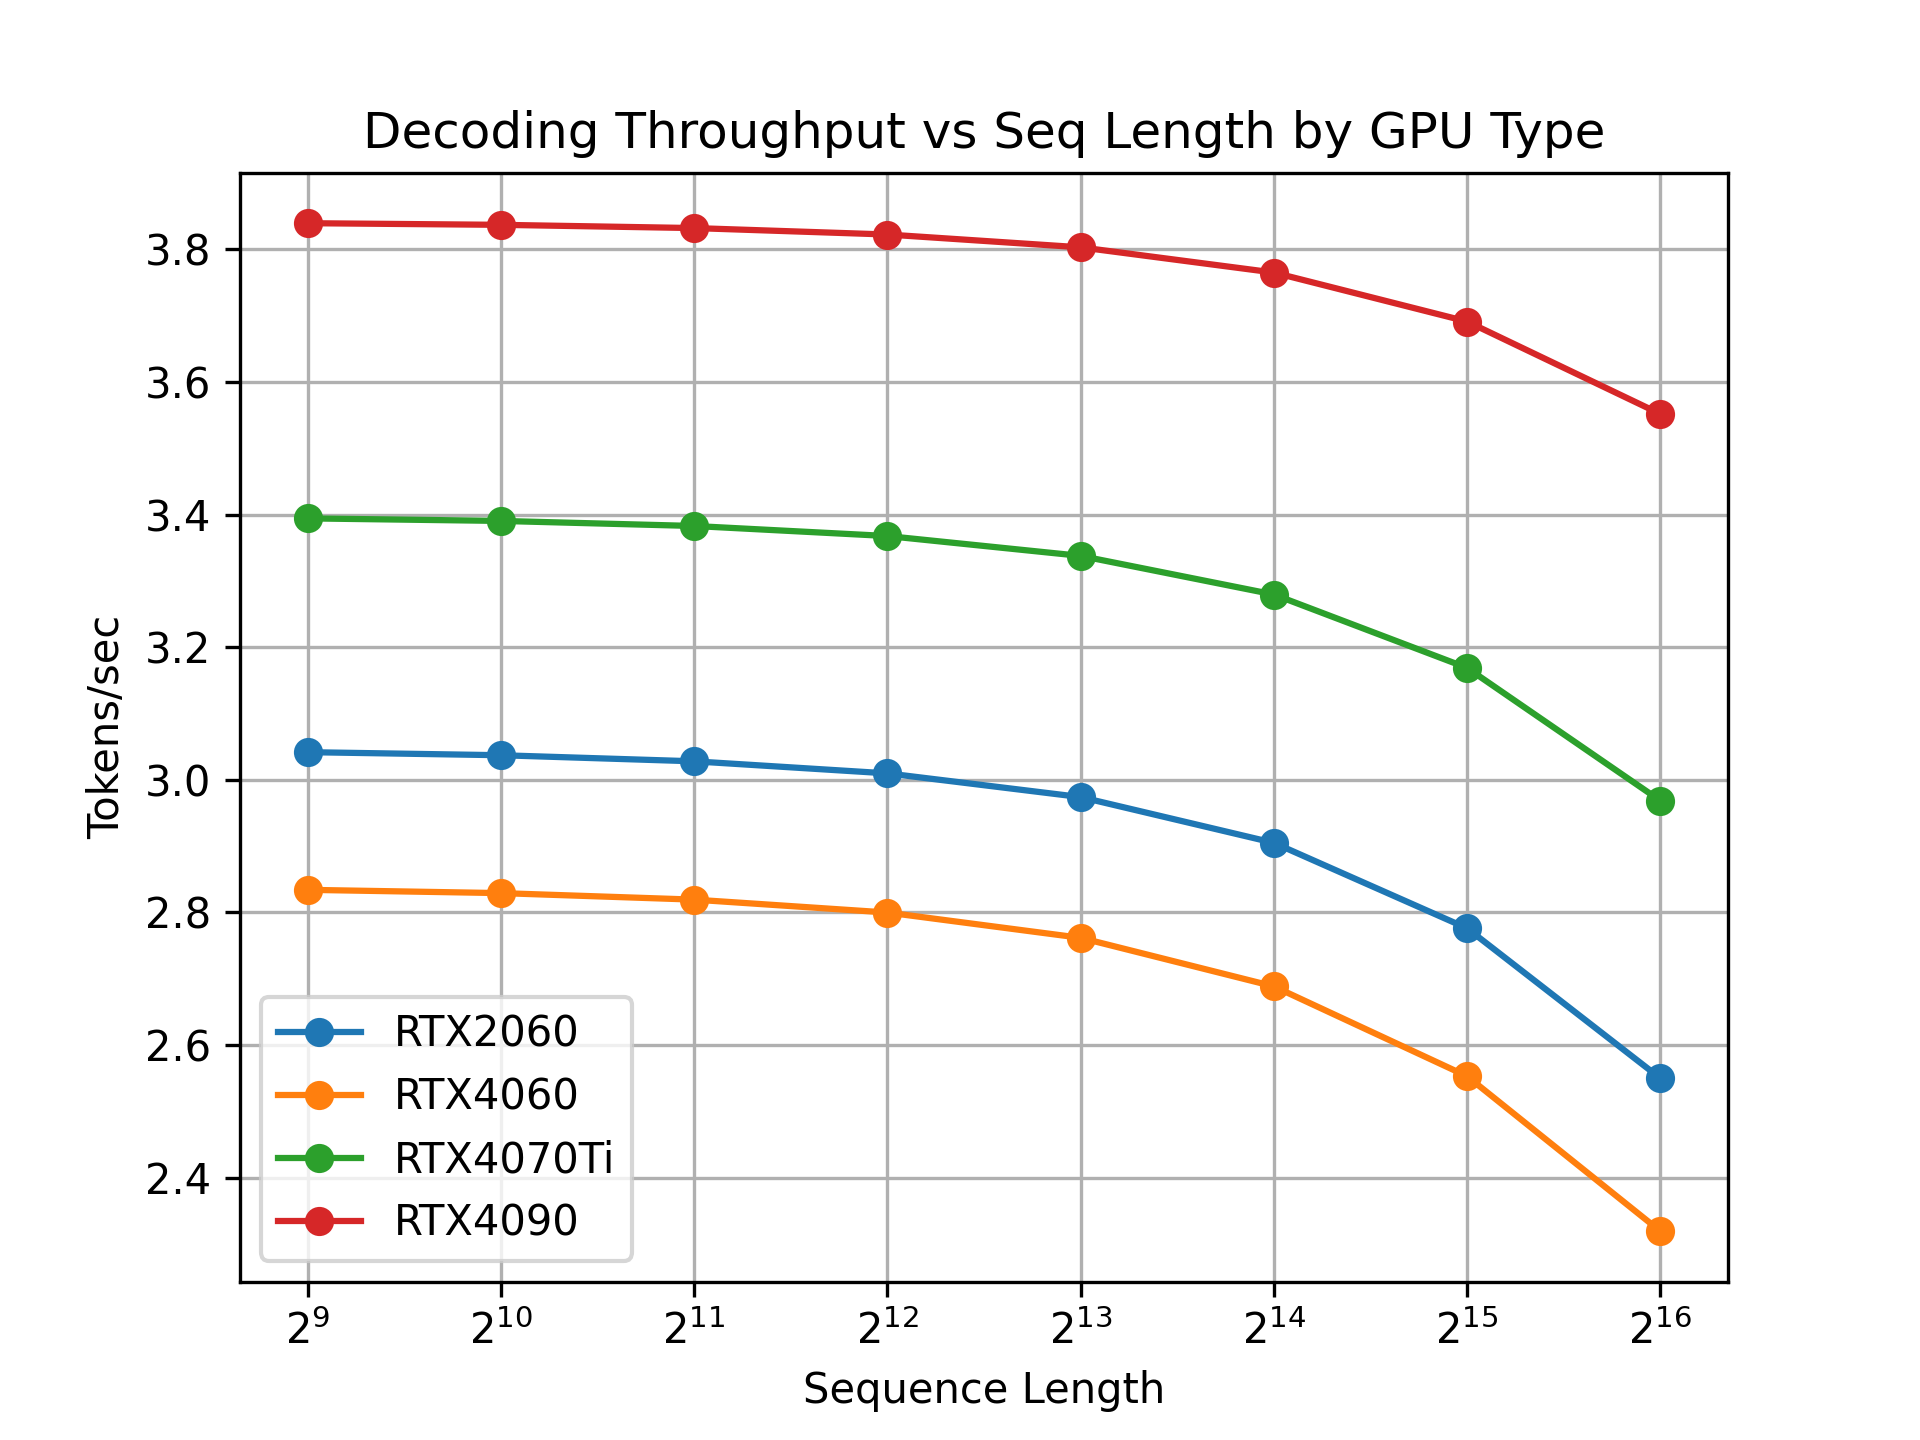
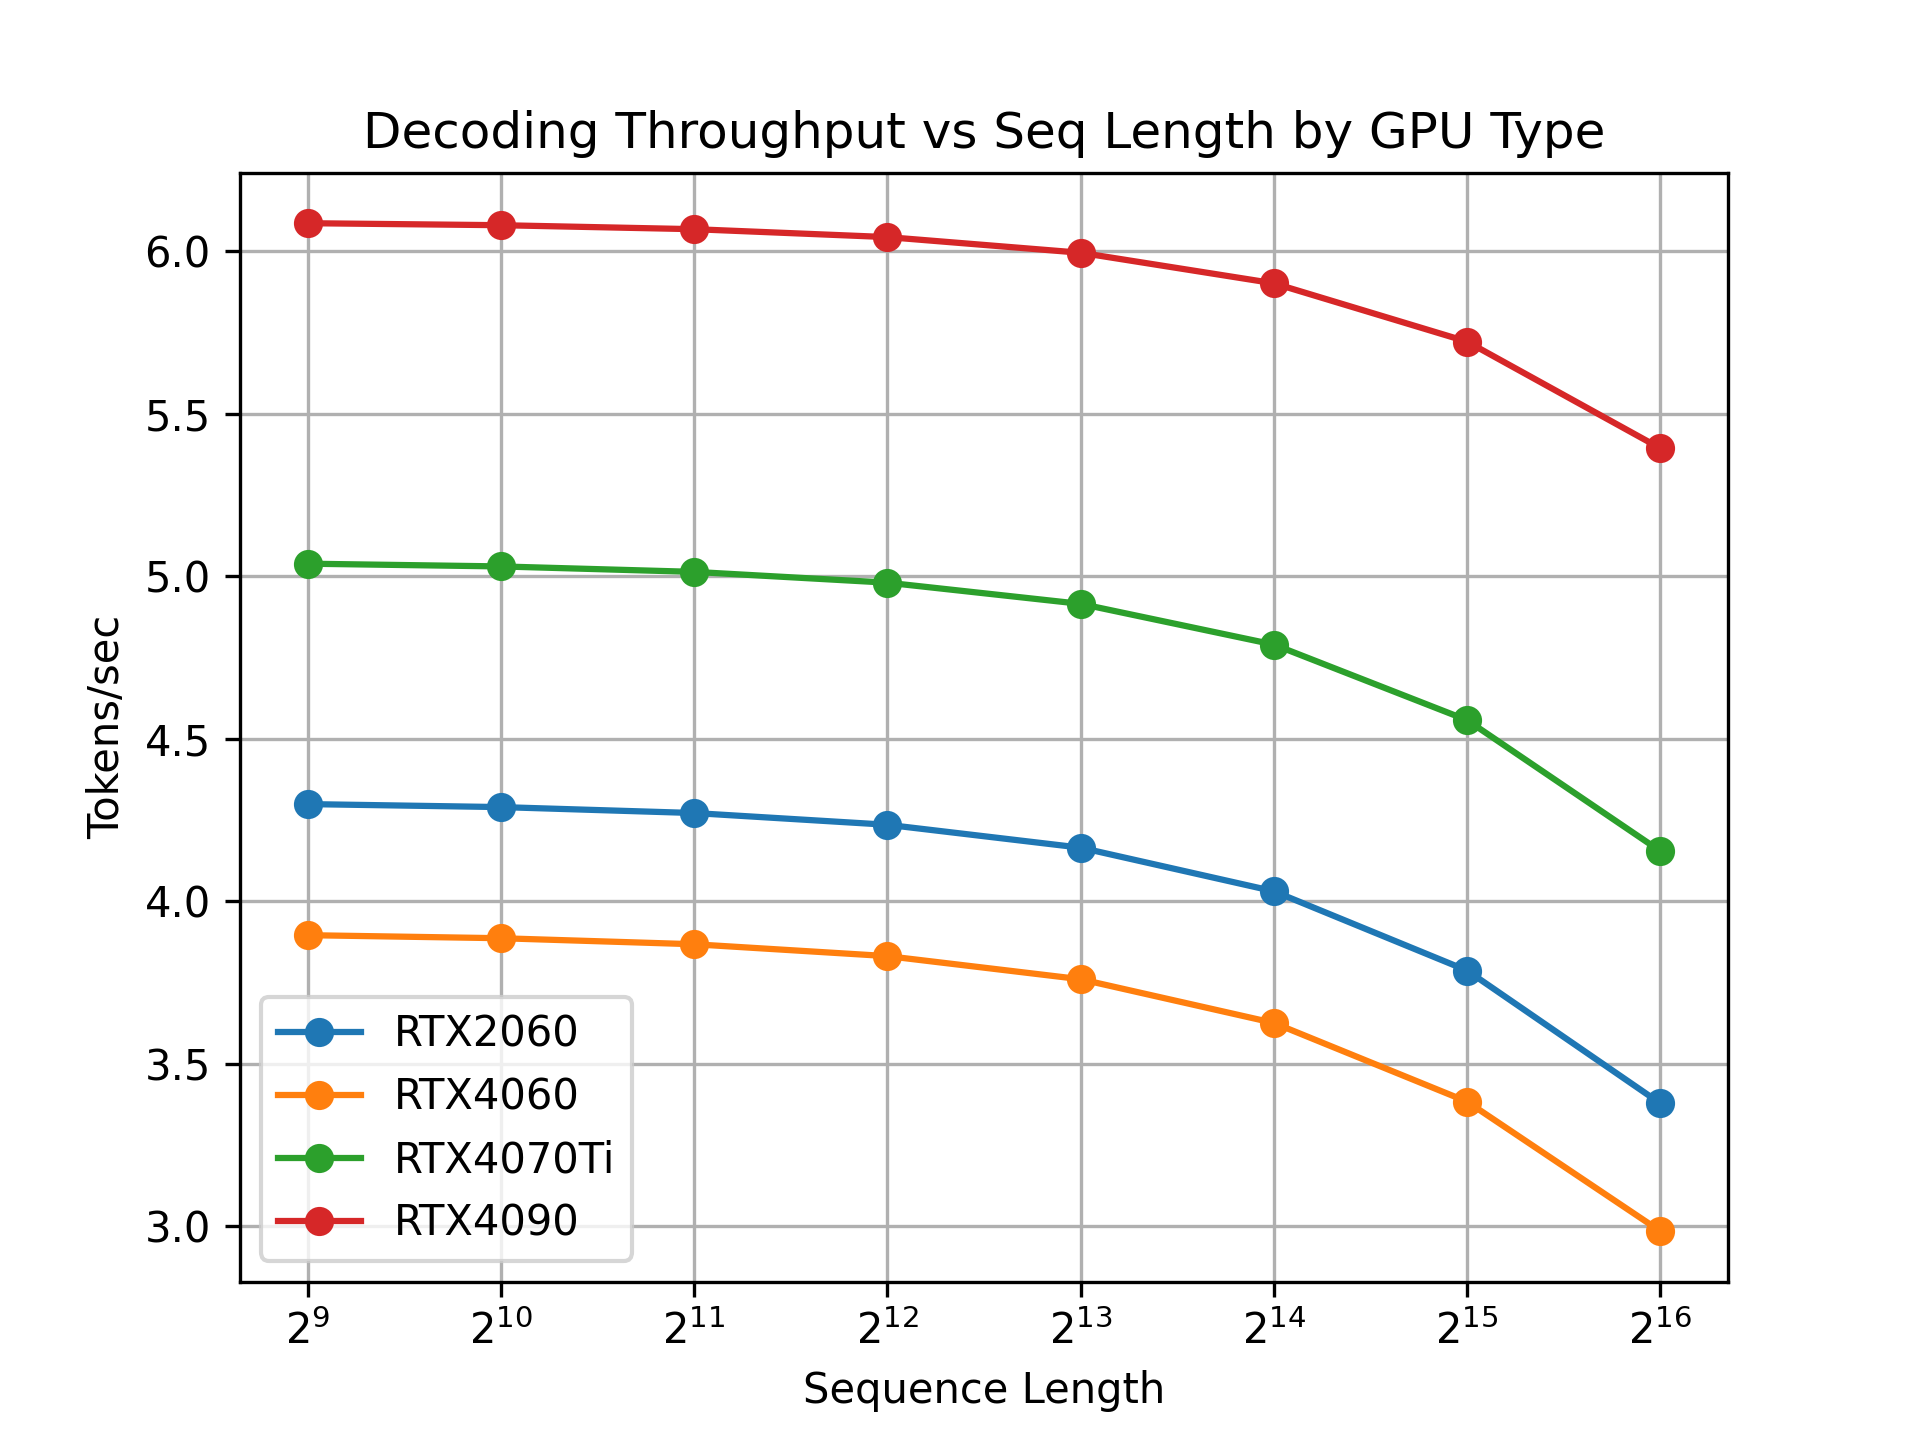
feat: add theoratical estimation, fix bug for commuication formula (MBytes -> MBits) and (latency = RTT -> latency = RTT/2)

diff --git a/latency_estimation_main.py b/latency_estimation_main.py
@@ -13,7 +13,7 @@ BATCH_SIZE = 1
 
 # 1) Vary number of servers (all 4090)
 def plot_by_server_count():
-    server_counts = [8, 10, 16, 20]
+    server_counts = [4, 8, 10, 16, 20]
     plt.figure()
     for count in server_counts:
         # build configuration
@@ -41,12 +41,13 @@ def plot_by_gpu_type():
     gpu_funcs = [get_2060_example, get_4060_example, get_4070ti_example, get_4090_example]
     labels = ['RTX2060', 'RTX4060', 'RTX4070Ti', 'RTX4090']
     plt.figure()
+    num_servers = 4
     for fn, label in zip(gpu_funcs, labels):
         model_cfg, _, client_cfg, network_cfg = create_base_configs()
         # two servers of this GPU
         server_cfgs = [fn(client_cfg.download_network_bandwidth,
                           client_cfg.upload_network_bandwidth,
-                          num_blocks=model_cfg.num_layers // 8)] * 8
+                          num_blocks=model_cfg.num_layers // num_servers)] * num_servers
         estimator = PetalsEstimator(model_cfg, server_cfgs, client_cfg, network_cfg)
         throughputs = [estimator.run(seq, BATCH_SIZE).token_per_s for seq in TEST_SEQ_LENS]
         plt.plot(TEST_SEQ_LENS, throughputs, marker='o', label=label)
@@ -63,12 +64,13 @@ def plot_by_gpu_type():
 def plot_by_rtt():
     rtts = [10e-3, 50e-3, 200e-3, 500e-3]
     plt.figure()
+    num_servers = 4
     for rtt in rtts:
         model_cfg, _, client_cfg, network_cfg = create_base_configs()
         network_cfg.fixed_rtt = rtt
         server_cfgs = [get_4090_example(client_cfg.download_network_bandwidth,
                                         client_cfg.upload_network_bandwidth,
-                                        num_blocks=model_cfg.num_layers // 8)] * 8
+                                        num_blocks=model_cfg.num_layers // num_servers)] * num_servers
         estimator = PetalsEstimator(model_cfg, server_cfgs, client_cfg, network_cfg)
         throughputs = [estimator.run(seq, BATCH_SIZE).token_per_s for seq in TEST_SEQ_LENS]
         plt.plot(TEST_SEQ_LENS, throughputs, marker='o', label=f"RTT={rtt*1e3:.0f}ms")
@@ -85,13 +87,14 @@ def plot_by_rtt():
 def plot_by_bandwidth():
     bws = [50e6, 100e6, 200e6, 400e6]  # in B/s
     plt.figure()
+    num_servers = 4
     for bw in bws:
         model_cfg, _, client_cfg, network_cfg = create_base_configs()
         client_cfg.download_network_bandwidth = client_cfg.upload_network_bandwidth = bw
-        server_cfgs = [get_4090_example(bw, bw, num_blocks=model_cfg.num_layers // 8)] * 8
+        server_cfgs = [get_4090_example(bw, bw, num_blocks=model_cfg.num_layers // num_servers)] * num_servers
         estimator = PetalsEstimator(model_cfg, server_cfgs, client_cfg, network_cfg)
         throughputs = [estimator.run(seq, BATCH_SIZE).token_per_s for seq in TEST_SEQ_LENS]
-        plt.plot(TEST_SEQ_LENS, throughputs, marker='o', label=f"BW={bw/1e6:.0f}MB/s")
+        plt.plot(TEST_SEQ_LENS, throughputs, marker='o', label=f"BW={bw/1e6:.0f}Mbits/s")
     plt.xscale('log', base=2)
     
     plt.xlabel('Sequence Length')
@@ -100,6 +103,54 @@ def plot_by_bandwidth():
     plt.legend()
     plt.grid(True)
     plt.savefig('figures/throughput_by_bandwidth.png', dpi=300)
+
+# 5) Vary number of servers (theoratical estimation)
+def plot_by_server_count_theoratically():
+    server_counts = [4, 8, 10, 16, 20]
+    plt.figure()
+    for count in server_counts:
+        # build configuration
+        model_cfg, _, client_cfg, network_cfg = create_base_configs()
+        server_cfgs = [get_4090_example(client_cfg.download_network_bandwidth,
+                                        client_cfg.upload_network_bandwidth,
+                                        num_blocks=80 // count)] * count
+        estimator = PetalsEstimator(model_cfg, server_cfgs, client_cfg, network_cfg)
+        throughputs = []
+        for seq in TEST_SEQ_LENS:
+            res: EstimateResults = estimator.run_theoratical_estimation(seq, BATCH_SIZE)
+            throughputs.append(res.token_per_s)
+        plt.plot(TEST_SEQ_LENS, throughputs, marker='o', label=f"{count} servers")
+    plt.xscale('log', base=2)
+    
+    plt.xlabel('Sequence Length')
+    plt.ylabel('Tokens/sec')
+    plt.title('Decoding Throughput vs Seq Length by Server Count')
+    plt.legend()
+    plt.grid(True)
+    plt.savefig('figures/theoratical_throughput_by_servers.png', dpi=300)
+
+# 6) Vary RTT (theroratical estimation)
+def plot_by_rtt_theoratically():
+    rtts = [10e-3, 50e-3, 200e-3, 500e-3]
+    num_servers = 4
+    plt.figure()
+    for rtt in rtts:
+        model_cfg, _, client_cfg, network_cfg = create_base_configs()
+        network_cfg.fixed_rtt = rtt
+        server_cfgs = [get_4090_example(client_cfg.download_network_bandwidth,
+                                        client_cfg.upload_network_bandwidth,
+                                        num_blocks=model_cfg.num_layers // num_servers)] * num_servers
+        estimator = PetalsEstimator(model_cfg, server_cfgs, client_cfg, network_cfg)
+        throughputs = [estimator.run_theoratical_estimation(seq, BATCH_SIZE).token_per_s for seq in TEST_SEQ_LENS]
+        plt.plot(TEST_SEQ_LENS, throughputs, marker='o', label=f"RTT={rtt*1e3:.0f}ms")
+    plt.xscale('log', base=2)
+    
+    plt.xlabel('Sequence Length')
+    plt.ylabel('Tokens/sec')
+    plt.title('Decoding Throughput vs Seq Length by RTT')
+    plt.legend()
+    plt.grid(True)
+    plt.savefig('figures/theoratical_throughput_by_rtt.png', dpi=300)
 
 # Helper to create base model, client, network configurations
 def create_base_configs():
@@ -125,6 +176,8 @@ def main():
     plot_by_gpu_type()
     plot_by_rtt()
     plot_by_bandwidth()
+    plot_by_server_count_theoratically()
+    plot_by_rtt_theoratically()
 
 if __name__ == '__main__':
     main()

diff --git a/src/petals_estimator/estimator.py b/src/petals_estimator/estimator.py
@@ -141,6 +141,20 @@ class PetalsEstimator:
             
         return client_storage, server_storage
         
+    def estimate_theoratical_latency(self, seq_len: int, batch_size: int) -> dict[str, float]:
+        """
+        Estimate the total latency by considering only the minimum communication latency, as this is the component that cannot be optimized. Exclude other potential latencies that might be improved, such as server status checks or ping times.
+        """
+        latency_components = defaultdict(int)
+        for i, server in enumerate(self.server_configs):
+            if i == 0: # On the first server, communication time includes transmission from client to server
+                latency_components["(comm)first_server_inputs_comm_latency"] += self._get_random_rtt() / 2
+            else:   # On the other server, the communication happen here is from previous server to next server and also previous server to client
+                latency_components["(comm)total_server_to_server_inputs_comm_latency"] += self._get_random_rtt() / 2
+            # After finished all computation, send the outputs to client and next server, since "server to server" communication latency already be estimated above, here we only consider the last server scenario, which is the last server need to transfer the outputs back to client
+            if i == len(self.server_configs) - 1:
+                latency_components["(comm)last_server_outputs_comm_latency"] += self._get_random_rtt() / 2
+        return latency_components
     
     def estimate_total_latency(self, seq_len: int, batch_size: int) -> dict[str, float]:
         """
@@ -173,14 +187,14 @@ class PetalsEstimator:
         for i, server in enumerate(self.server_configs):
             inputs_bytes = batch_size * 1 * self.model_config.hidden_size * self.model_config.activation_precision_bytes # Due to the KV Cache, the inputs size is just one token's hidden vector
             if i == 0: # On the first server, communication time includes transmission from client to server
-                comm_bw = min(self.client_config.upload_network_bandwidth, server.download_network_bandwidth)   # Use the lower bandwidth between client upload and server download
+                comm_bw = min(self.client_config.upload_network_bandwidth, server.download_network_bandwidth) / 8   # Use the lower bandwidth between client upload and server download
                 inputs_comm_latency = inputs_bytes / comm_bw
                 inputs_comm_latency += (self._get_random_rtt() / 2)
                 latency_components["(comm)first_server_inputs_comm_latency"] += inputs_comm_latency
             else:   # On the other server, the communication happen here is from previous server to next server and also previous server to client
                 previous_server = self.server_configs[i - 1]
                 previous_server_bw = previous_server.upload_network_bandwidth / 2 # This needs to be divided by two because the data is sent to both the client and the next server simultaneously
-                comm_bw = min(server.download_network_bandwidth, previous_server_bw)
+                comm_bw = min(server.download_network_bandwidth, previous_server_bw) / 8
                 inputs_comm_latency = inputs_bytes / comm_bw
                 inputs_comm_latency += (self._get_random_rtt() / 2)
                 latency_components["(comm)total_server_to_server_inputs_comm_latency"] += inputs_comm_latency
@@ -215,10 +229,10 @@ class PetalsEstimator:
             
             # After finished all computation, send the outputs to client and next server, since "server to server" communication latency already be estimated above, here we only consider the last server scenario, which is the last server need to transfer the outputs back to client
             if i == len(self.server_configs) - 1:
-                comm_bw = min(self.client_config.upload_network_bandwidth, server.download_network_bandwidth)   # Use the lower bandwidth between server upload and client download
+                comm_bw = min(self.client_config.upload_network_bandwidth, server.download_network_bandwidth) / 8  # Use the lower bandwidth between server upload and client download
                 outputs_comm_latency = outputs_bytes / comm_bw
                 outputs_comm_latency += (self._get_random_rtt() / 2)
-                latency_components["(comm)last_server_outputs_comm_latency"] += inputs_comm_latency
+                latency_components["(comm)last_server_outputs_comm_latency"] += outputs_comm_latency
 
         compute_logits_latency = 0 
         latency_components["(compute&memory)compute_logits_latency"] += compute_logits_latency
@@ -258,5 +272,10 @@ class PetalsEstimator:
         
     def run(self, seq_len: int, batch_size: int) -> EstimateResults:
         results = self.estimate_total_latency(seq_len, batch_size)
+        total_latency = sum(results.values())
+        return EstimateResults(seq_len=seq_len, token_per_s=1 / total_latency)
+    
+    def run_theoratical_estimation(self, seq_len: int, batch_size: int) -> EstimateResults:
+        results = self.estimate_theoratical_latency(seq_len, batch_size)
         total_latency = sum(results.values())
         return EstimateResults(seq_len=seq_len, token_per_s=1 / total_latency)

diff --git a/src/petals_estimator/config.py b/src/petals_estimator/config.py
@@ -25,16 +25,16 @@ class ServerConfig:
     ops_utilization: float # pecentage
     pcie_bandwidth: float # B/s
     vram_bandwidth: float  # B/s
-    download_network_bandwidth: float  # B/s
-    upload_network_bandwidth: float  # B/s
+    download_network_bandwidth: float  # bits/s
+    upload_network_bandwidth: float  # bits/s
     num_blocks: int  # Number of transformer blocks on this server
 
 @dataclass
 class ClientConfig:
     """Client configuration"""
-    download_network_bandwidth: float  # B/s
-    upload_network_bandwidth: float  # B/s
-    dram_bandwidth: float # B/s
+    download_network_bandwidth: float  # bits/s
+    upload_network_bandwidth: float  # bits/s
+    dram_bandwidth: float # bits/s
     # Only used to calculate the load and store operations for the server's input cache.
 
 @dataclass
